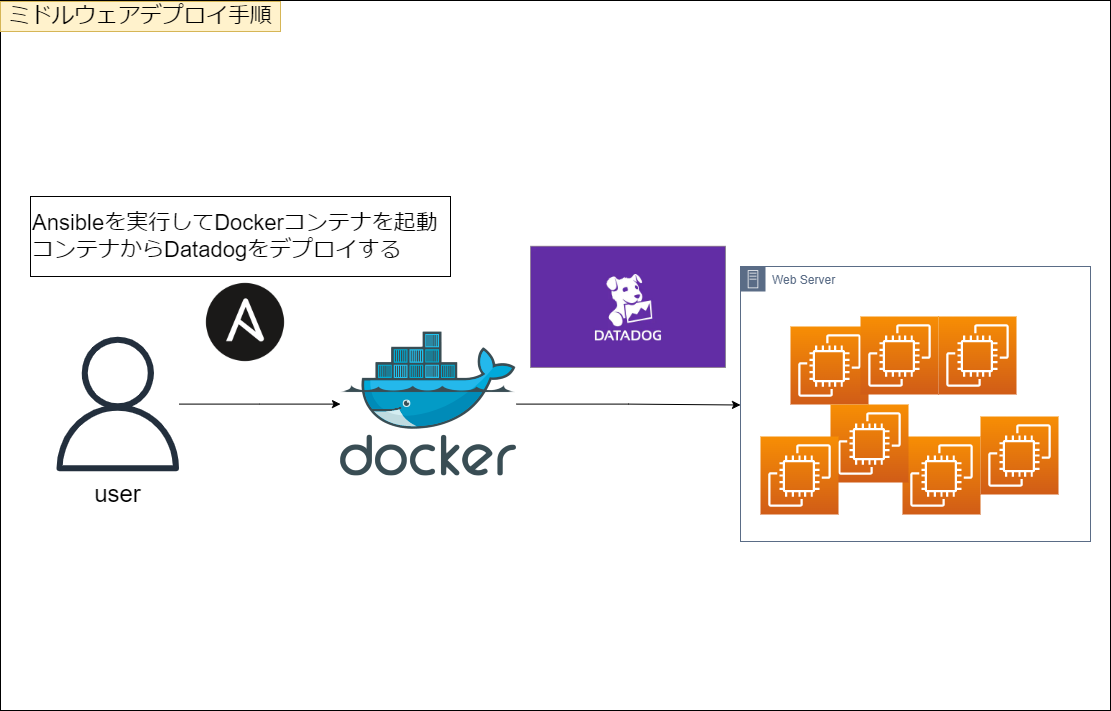
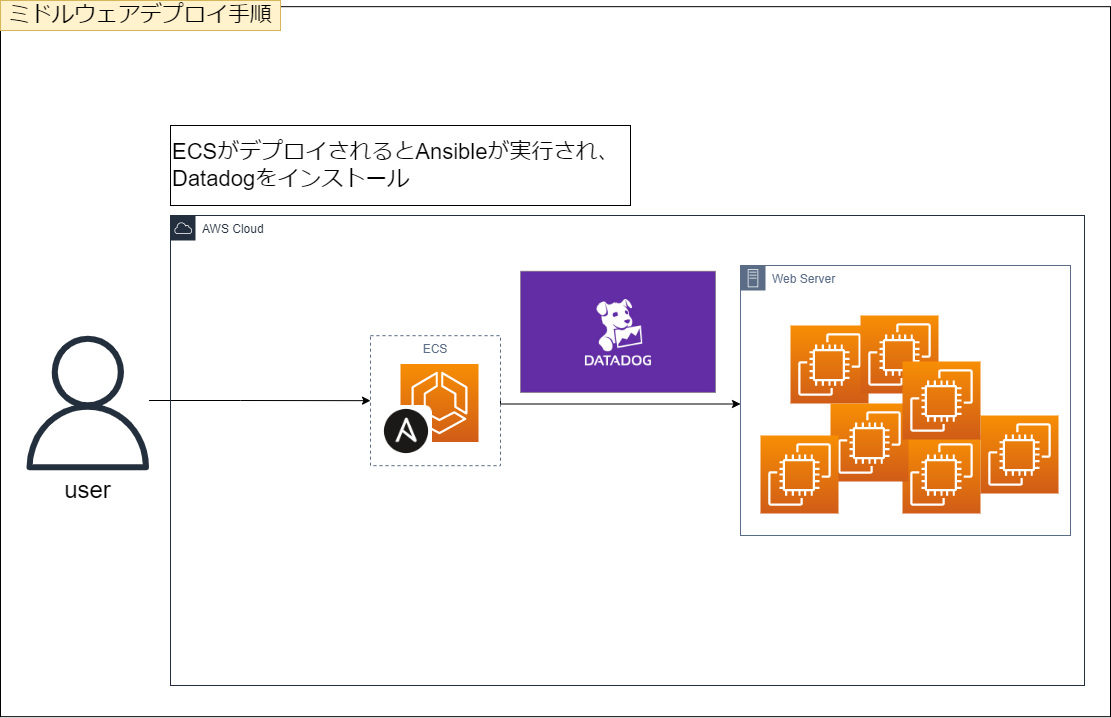
add 3 chapter

diff --git a/articles/datadog-install-on-ubuntu-by-ansible.md b/articles/datadog-install-on-ubuntu-by-ansible.md
@@ -7,16 +7,122 @@ published: false
 ---
 
 # 概要
-会社で新しくDatadogを導入しようとしたときにちょっとしたトラップに出くわしましたので詳細と回避策について紹介します。
+会社で新しくDatadogを導入しようとしたときにちょっとしたトラップに遭遇しましたので詳細と回避策について紹介します。
 
 # Datadog
 https://www.datadoghq.com/ja/
 詳しい説明はドキュメントなり他の人が書いた記事などがありますので、割愛しますが監視SaaSとして人気のあるサービスです。
-単なるモニタリング以外にもログ分析やトレーシングなどがありまして弊社でもメトリクス監視以外の機能も活用しようとして導入を進めている最中です。
+モニタリング以外にもログ分析やトレーシングなどがありまして弊社でもメトリクス監視以外の機能も活用しようとして導入を進めている最中です。
 いわゆるエージェント方式で監視対象ホストにエージェントを導入することで、Datadogの管理画面にメトリクスやログ、プロセス情報を収集できます。公式でインストール方法が細かく紹介されていまして、直接ホストにインストールする方法以外にもAnsible経由やDockerでのインストール方法も紹介されています。
 https://docs.datadoghq.com/ja/agent/
 
 # インストール
-弊社では複数のメディアサーバーに共通のミドルウェアを導入するときはAnsibleの入ったDockerコンテナからインストールするようにしています。
-Datadog用のロールを用意してplaybookで追加するだけで簡単にインストールできると思い、Ansibleからインストールする方法を選択しました。
+弊社では複数のメディアサーバーに共通のミドルウェアを導入するときにAnsibleの入ったDockerコンテナからインストールするようにしています。
 ![](/images/datadog-install-on-ubuntu-by-ansible/image1.png)
+
+Datadogをインストールするロールそのものも公式から提供されているのでそれをダウンロードしてplaybookに追加すれば簡単にできると考えました。
+
+## Ansible用インストール手順
+https://docs.datadoghq.com/ja/agent/basic_agent_usage/ansible/
+Ansibleを実行するホストでAnsible Galaxy上に存在する公式のDatadogロールをダウンロードします。
+ちなみにこのロールはどこに格納されるかというとデフォルトではホームディレクトリ配下にある`.ansible`ディレクトリ配下に保存されます。
+```console
+% ansible-galaxy install datadog.datadog
+Starting galaxy role install process
+- downloading role 'datadog', owned by datadog
+- downloading role from https://github.com/DataDog/ansible-datadog/archive/4.16.0.tar.gz
+- extracting datadog.datadog to /home/yuta0128/.ansible/roles/datadog.datadog
+- datadog.datadog (4.16.0) was installed successfully
+```
+
+その後、Playbookにロール追加とDatadogセットアップ時に発行されるAPIキーを追加します。
+
+```yml: Playbook
+- hosts: servers
+  roles:
+    - { role: datadog.datadog, become: yes }
+  vars:
+    datadog_api_key: "<DD_API_キー>"
+```
+
+準備はこれだけです。このあとにECSコンテナをデプロイし直せばメディアサーバーにDatadogがインストールされるはずでした。
+
+# 失敗
+途中でエラーが生じて、Ansibleの処理が止まってしまいました。
+
+```console
+TASK [datadog.datadog : Include Gather Ansible Facts task on Ansible >= 2.10] ***********************************************************
+skipping: [172.27.13.181]
+
+TASK [datadog.datadog : Include Gather Ansible Facts task on Ansible < 2.10] ************************************************************
+included: /home/ubuntu/.ansible/roles/datadog.datadog/tasks/facts-ansible9.yml for 172.27.13.181
+
+TASK [datadog.datadog : Gather Ansible Facts] *******************************************************************************************
+ok: [172.27.13.181]
+
+TASK [datadog.datadog : Check if OS is supported] ***************************************************************************************
+included: /home/ubuntu/.ansible/roles/datadog.datadog/tasks/os-check.yml for 172.27.13.181
+
+省略
+~~~~~~~~~~~~~~~~~~~~~~~~~~~~~~~~~~~~~~~~~~~~~~~~~~~~~~~~~~~~~~~~~~~~~~~~~~~~~~~~~~~~~~~~~~~~~~~~~~~~~~~~~~~~~~~~~~~~~~~~~~~~~~~~~~~~~~~~~
+省略
+
+TASK [datadog.datadog : Linux Configuration Tasks (Agent 5)] ****************************************************************************
+skipping: [172.27.13.181]
+
+TASK [datadog.datadog : Linux Configuration Tasks] **************************************************************************************
+included: /home/ubuntu/.ansible/roles/datadog.datadog/tasks/agent-linux.yml for 172.27.13.181
+
+TASK [datadog.datadog : Populate service facts] *****************************************************************************************
+fatal: [172.27.13.181]: FAILED! => {"changed": false, "msg": "Malformed output discovered from systemd list-unit-files: accounts-daemon.service                        enabled         enabled      "}
+
+PLAY RECAP ******************************************************************************************************************************
+172.27.13.181              : ok=20   changed=0    unreachable=0    failed=1    skipped=22   rescued=0    ignored=0
+```
+
+Datadogのロールを確認したところ以下のタスクの処理でエラーが起きていました。
+
+```yml: aget-linux.yml
+- name: Populate service facts
+  service_facts:
+```
+
+https://docs.ansible.com/ansible/2.9_ja/modules/service_facts_module.html
+
+service_factsモジュールはサービス情報を収集するモジュールですが、`accounts-daemon`というサービスで不正な出力が発見されたことから`failed`エラーとなって処理が止まったように思われます。
+実はこの挙動はバグで、AnsibleのGitHubにもissueとして挙がっていました。
+https://github.com/ansible/ansible/issues/68536
+
+バグ自体はver2.9.8で修正済みですが、ECSコンテナで動かしているLinuxディストリビューションのUbuntu20.04ではAPTパッケージからver2.9.6までしか取得できませんでした。
+
+```console:Ubuntu 20.04
+NAME="Ubuntu"
+VERSION="20.04.3 LTS (Focal Fossa)"
+ID=ubuntu
+ID_LIKE=debian
+PRETTY_NAME="Ubuntu 20.04.3 LTS"
+VERSION_ID="20.04"
+HOME_URL="https://www.ubuntu.com/"
+SUPPORT_URL="https://help.ubuntu.com/"
+BUG_REPORT_URL="https://bugs.launchpad.net/ubuntu/"
+PRIVACY_POLICY_URL="https://www.ubuntu.com/legal/terms-and-policies/privacy-policy"
+VERSION_CODENAME=focal
+UBUNTU_CODENAME=focal
+
+$ ansible --version
+ansible 2.9.6
+  config file = /home/ubuntu/infra/ansible/ansible.cfg
+  configured module search path = ['/home/ubuntu/.ansible/plugins/modules', '/usr/share/ansible/plugins/modules']
+  ansible python module location = /usr/lib/python3/dist-packages/ansible
+  executable location = /usr/bin/ansible
+  python version = 3.8.10 (default, Jun 22 2022, 20:18:18) [GCC 9.4.0]
+
+$ apt search ansible
+Sorting... Done
+Full Text Search... Done
+ansible/focal,now 2.9.6+dfsg-1 all [installed]
+  Configuration management, deployment, and task execution system
+```
+
+# 参考文献
+https://github.com/ansible/ansible/blob/stable-2.9/changelogs/CHANGELOG-v2.9.rst#v2-9-8
